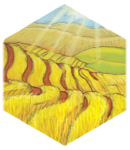
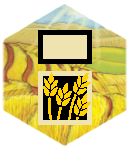
Tiles overhaul. Better reps the resource it provides.

Changed region(s): [[0.2769, 0.4533, 0.7077, 0.8533], [0.2769, 0.1867, 0.7077, 0.4267]]

diff --git a/catan/constants.py b/catan/constants.py
@@ -57,7 +57,7 @@ RESOURCE_TYPES = [
 pygame.font.init()
 FONT = pygame.font.SysFont("comicsansms", 32)
 TITLE_FONT = pygame.font.SysFont("comicsansms", 42)
-NUMBER_FONT = pygame.font.SysFont("comicsansms", 30)
+NUMBER_FONT = pygame.font.SysFont("comicsansms", 29)
 
 # menu assets
 MENU_BG = pygame.image.load('assets/menu/Catan_BG.jpg')
@@ -76,10 +76,10 @@ QUIT_BUTTON = button.Button(image=MENU_BUTTON, pos=(960, 800), text_input="QUIT"
 MENU_BUTTON_LIST = [PLAY_BUTTON, OPTIONS_BUTTON, QUIT_BUTTON]
 
 # game buttons
-END_TURN_BUTTON = button.Button(image=MENU_BUTTON, pos=(185, 1025.5),text_input="End Turn", font=NUMBER_FONT, base_color=BLACK, hovering_color= CYAN)
-PLACE_HOUSE_BUTTON = button.Button(image=MENU_BUTTON, pos=(185, 916.5),text_input="Place House", font=NUMBER_FONT, base_color=BLACK, hovering_color= CYAN)
-PLACE_ROAD_BUTTON = button.Button(image=MENU_BUTTON, pos=(185, 807.5),text_input="Place Road", font=NUMBER_FONT, base_color=BLACK, hovering_color= CYAN)
-BACK_BUTTON = button.Button(image=MENU_BUTTON, pos=(185, 916.5),text_input="Back", font=NUMBER_FONT, base_color=BLACK, hovering_color= CYAN)
+END_TURN_BUTTON = button.Button(image=MENU_BUTTON, pos=(185, 1025.5),text_input="End Turn", font=NUMBER_FONT, base_color=BLACK, hovering_color= WHITE)
+PLACE_HOUSE_BUTTON = button.Button(image=MENU_BUTTON, pos=(185, 916.5),text_input="Place House", font=NUMBER_FONT, base_color=BLACK, hovering_color= WHITE)
+PLACE_ROAD_BUTTON = button.Button(image=MENU_BUTTON, pos=(185, 807.5),text_input="Place Road", font=NUMBER_FONT, base_color=BLACK, hovering_color= WHITE)
+BACK_BUTTON = button.Button(image=MENU_BUTTON, pos=(185, 916.5),text_input="Back", font=NUMBER_FONT, base_color=BLACK, hovering_color= WHITE)
 
 UI_BUTTONS = [END_TURN_BUTTON, PLACE_HOUSE_BUTTON, PLACE_ROAD_BUTTON]
 PLACE_HOUSE_BUTTONS = [END_TURN_BUTTON, BACK_BUTTON]
@@ -181,12 +181,6 @@ ROAD_POSITIONS = [
     ((1098.56406460551, 860.0), (1167.1281292110202, 820.0)),
     ((1167.1281292110202, 820.0), (1167.8460969082653, 740.0)),
     ((1306.4101615137754, 500.0), (1307.1281292110202, 580.0))
-
-
-
-
-# for every pos in list_pos
-    # do something
 
 ]
 

diff --git a/catan/board.py b/catan/board.py
@@ -96,5 +96,5 @@ class Board:
 
             if values["number"] is not None and values["resource_type"][0] != 'desert':
                 number_text = NUMBER_FONT.render(str(values["number"]), True, BLACK)
-                number_rect = number_text.get_rect(center=values["position"])
+                number_rect = number_text.get_rect(center=(values["position"][0], values['position'][1] - 29.5))
                 screen.blit(number_text, number_rect)

diff --git a/catan/game.py b/catan/game.py
@@ -16,7 +16,6 @@ class Game:
         for current_player in self.players:
             current_player.draw_roads(screen)
 
-
         self.check_game_over()  # check if the game is over
 
     def draw_house(self, screen):
@@ -71,4 +70,3 @@ class Game:
             message = pygame.image.load("assets/UI/building_costs/road_cost.png")
             message_rect = message.get_rect(center=(960, 100))
             screen.blit(message, message_rect)
-

diff --git a/catan/player.py b/catan/player.py
@@ -68,7 +68,7 @@ class Player:
 
     def draw_roads(self, screen):
         for road in self.roads:
-            pygame.draw.line(screen,self.color,road[0], road[1], 10)
+            pygame.draw.line(screen,self.color,road[0], road[1], 15)
 
     def draw_resources(self, screen, y_pos):
         # draw wood number
